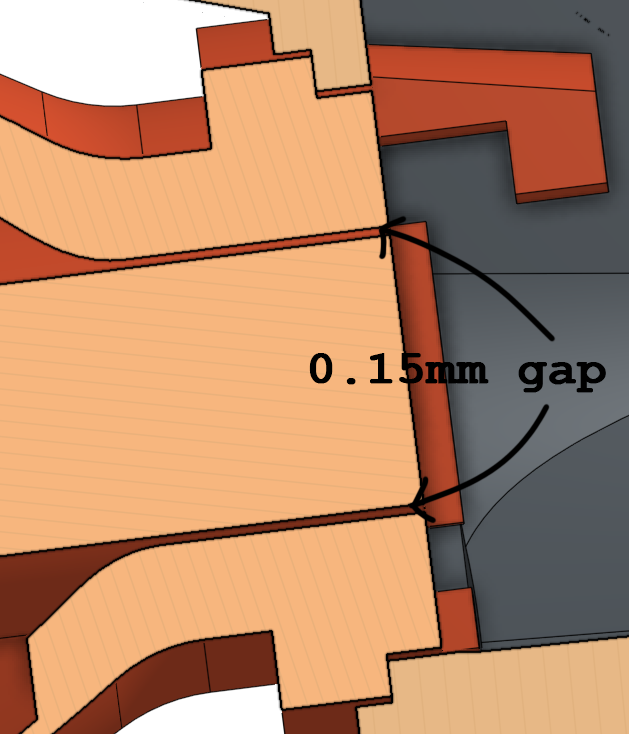
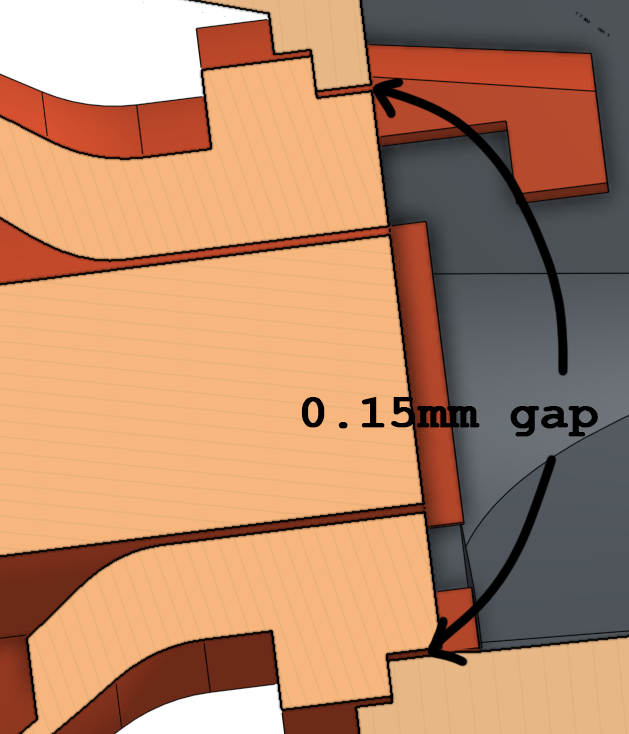
prototype

diff --git a/README.md b/README.md
@@ -1,37 +1,51 @@
 # MIG23MLD Flight Stick Clone
 
 ## Before starting
-Currently grip & button design is prototype. It is too hard to assemble and will be changed soon. </br>
-And also it is not 100% replica of Mig23MLD flight stick. My laziness + lack of cad skill lead to 80% clone of original.
+Currently grip & button design is prototype. It is too hard to assemble, no trigger group.... <br>
+And also it is not 100% replica of Mig23MLD flight stick. My laziness + lack of cad skill lead to 80% clone of original.<br>
+Will be improved soon!
 
 ## Credits
-Based on okulele's gimbal design : https://www.thingiverse.com/thing:2496028 </br>
-Used rdbeerman's cad files : https://github.com/rdbeerman/Joystick-Gimbal </br>
-Used Murat Vishnyakov's KG13 Grip cad file : https://grabcad.com/library/kg-13-flight-control-grip-1 </br>
-Referenced GGE2142's Mig23 Flight stick's 3d design : https://sketchfab.com/3d-models/mig-23mld-flight-stick-855707656b494a63adcc3c0fc8ba19b1 </br>
+Based on okulele's gimbal design : https://www.thingiverse.com/thing:2496028 <br>
+Used rdbeerman's cad files : https://github.com/rdbeerman/Joystick-Gimbal <br>
+Used Murat Vishnyakov's KG13 Grip cad file : https://grabcad.com/library/kg-13-flight-control-grip-1 <br>
+Referenced GGE2142's Mig23 Flight stick's 3d design : https://sketchfab.com/3d-models/mig-23mld-flight-stick-855707656b494a63adcc3c0fc8ba19b1 <br>
 
 ## How to assemble this thing?
 Full Assembly will look like this : https://cad.onshape.com/documents/41b159342893432992f2dc4f/w/2e32bb2981abb629ef604ac7/e/049652f066491f72423e1957
 
 
 BoM & Notes:
-dimension is slightly different from original design. Just because I used cheaper one. 
-Also used sleeve bearings on cams for lower cost. 
+dimension is slightly different from original design. Just because I used cheaper&available one. 
+Also used sleeve bearings on cams for lower cost.
 
 - Bearing 6901zz * 4
 - Bearing MR115zz * 4
 - Sleeve Bearing GFM-0507-11 * 4
 - Sleeve Bearing GFM-0709-10 * 4
-
-- M5x25 cross head/hex bolt * 3
-- M5x35 countersunk/hex bolt * 6
-- M5x35 cross head/hex bolt * 4
+- M5x25 cross head/hex bolt * 7
+- M5x35 countersunk/hex bolt * 4
+- M5x35 cross head/hex bolt * 12
 - M5 spring washer * 10
-- M5 nut * 19
-- M3x6 cross head/hex bolt
+- M5 nut * 23
+- M3x6 cross head/hex bolt * 6 (optional) 
+<br>
+
+Buttons
+- [PS1024ALRED](https://github.com/tiktrimo/MIG23MLD-Joystick-Gimbal/blob/main/images/20210718_0329.png) * 1 (Push button)
+- [TH101010](https://github.com/tiktrimo/MIG23MLD-Joystick-Gimbal/blob/main/images/Image%20001.png) * 2 (5 Way button)
+- [NW3-TS-G008](https://github.com/tiktrimo/MIG23MLD-Joystick-Gimbal/blob/main/images/Image%20002.png) * 1 (Tact switch)
+<br>
+<img src="https://github.com/tiktrimo/MIG23MLD-Joystick-Gimbal/blob/main/images/DSCF7199.JPG?raw=true" width="600">
+
+Used WSH135-XPAN2 Hall effect sensor. This was cheapest in store and cost about 50 cent. With 4x4x10mm neodymium magnet it gives 500 steps on each axis.
+
 
 ## Recommendation
-I recommend to change dimmension of clearances between buttons and head. Currently clearance is set 0.15mm. For my printer 0.15mm gap gives me perfect fit with click! sound. 
+I recommend to change gap between buttons and head. Currently gap is set to 0.15mm. For my printer 0.15mm gap gives me perfect fit with click! sound. 
+
+<img src="https://github.com/tiktrimo/MIG23MLD-Joystick-Gimbal/blob/main/images/20210718_0323.png?raw=true" width="400">
+
 
 ## Issues
-Feel free to [Issue](https://github.com/tiktrimo/MIG23MLD-Joystick-Gimbal/issues) any subject (e.g there is broken english, need more explaining for something ...).
+Feel free to [Issue](https://github.com/tiktrimo/MIG23MLD-Joystick-Gimbal/issues) any subject (e.g broken english, need more explaining...).
